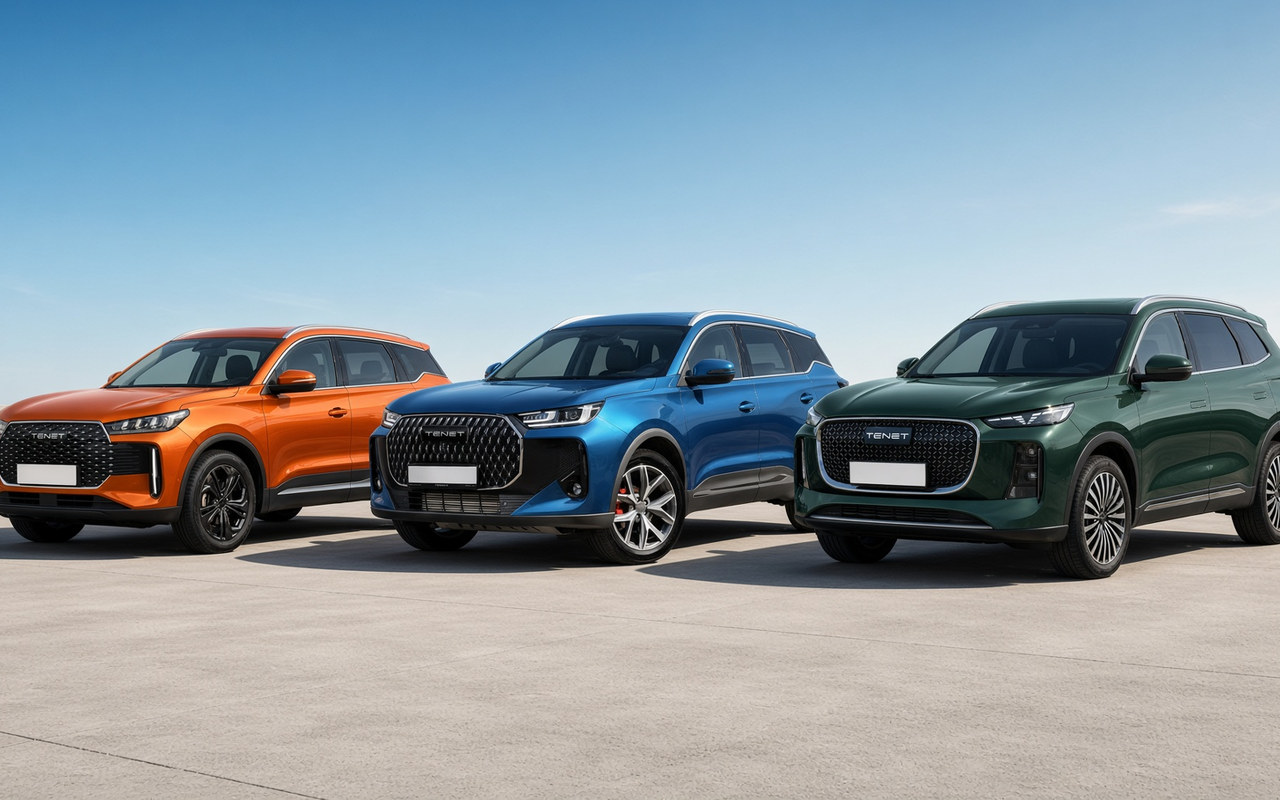
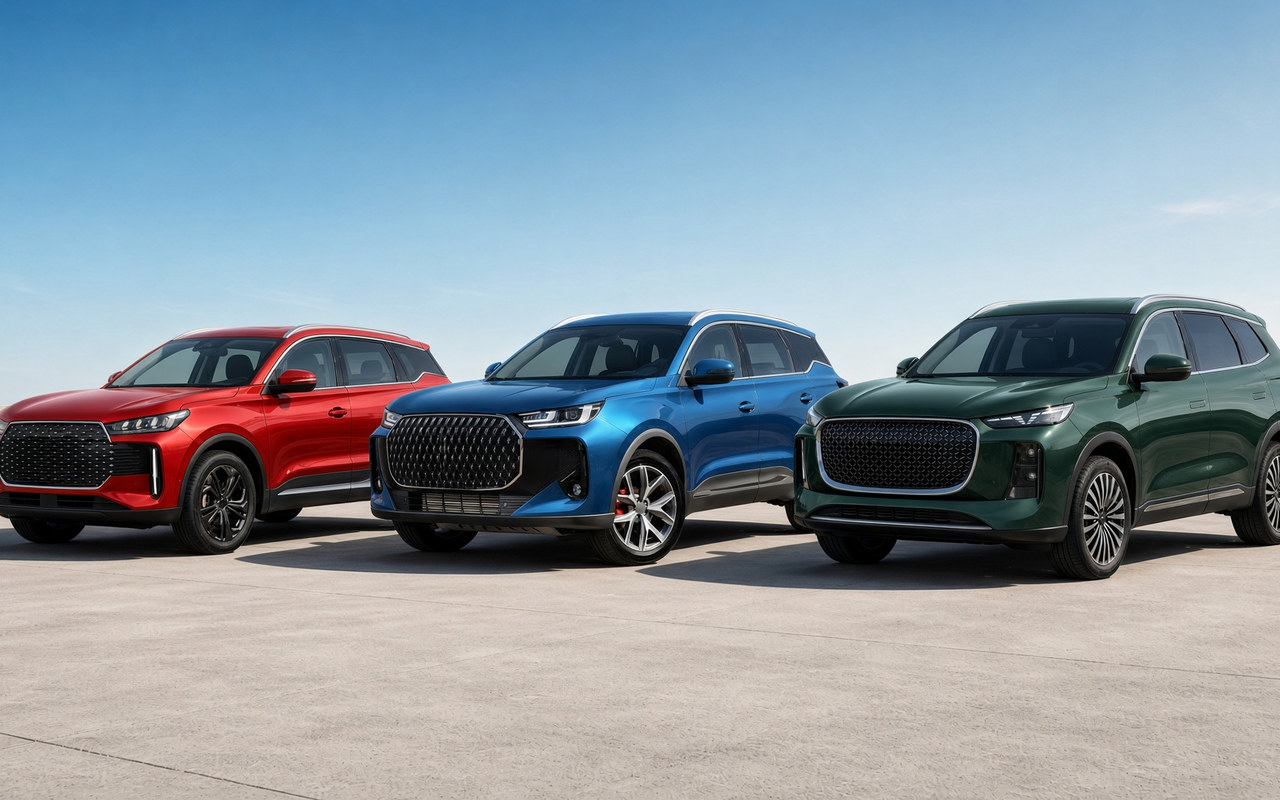
Склад: левая T4L красная

diff --git a/TENET_T4L_netlify/index.html b/TENET_T4L_netlify/index.html
@@ -232,7 +232,7 @@ input,textarea{width:100%;background:#fff;border:1px solid var(--border);color:v
 .hub-card[data-go="home"]::before{background-image:url("hub/attest.jpg?v=2");background-position:50% 55%;}
 .hub-card[data-go="terms"]::before{background-image:url("hub/terms.jpg?v=1");background-position:55% 42%;}
 .hub-card[data-go="calc"]::before{background-image:url("hub/calc.jpg?v=1");background-position:38% 48%;}
-.hub-card[data-go="stock"]::before{background-image:url("hub/stock.jpg?v=2");background-position:50% 58%;}
+.hub-card[data-go="stock"]::before{background-image:url("hub/stock.jpg?v=3");background-position:50% 58%;}
 .hub-card[data-go="docs"]::before{background-image:url("hub/docs.jpg?v=1");background-position:50% 50%;}
 .hub-mark{
   position:absolute;

diff --git a/theme.css b/theme.css
@@ -239,7 +239,7 @@ input,textarea{width:100%;background:#fff;border:1px solid var(--border);color:v
 .hub-card[data-go="home"]::before{background-image:url("hub/attest.jpg?v=2");background-position:50% 55%;}
 .hub-card[data-go="terms"]::before{background-image:url("hub/terms.jpg?v=1");background-position:55% 42%;}
 .hub-card[data-go="calc"]::before{background-image:url("hub/calc.jpg?v=1");background-position:38% 48%;}
-.hub-card[data-go="stock"]::before{background-image:url("hub/stock.jpg?v=2");background-position:50% 58%;}
+.hub-card[data-go="stock"]::before{background-image:url("hub/stock.jpg?v=3");background-position:50% 58%;}
 .hub-card[data-go="docs"]::before{background-image:url("hub/docs.jpg?v=1");background-position:50% 50%;}
 .hub-mark{
   position:absolute;
